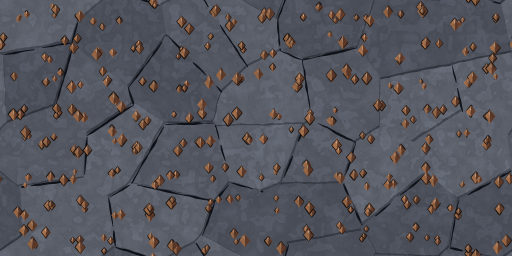
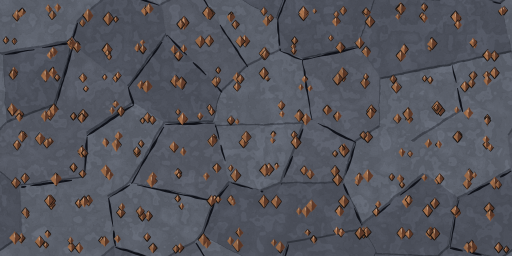
fix(light): keep each vein mark inside its own cell
An ore cell beside plain stone cut its chips at the cell's edge.

diff --git a/tools/anime-art/subjects/caves.js b/tools/anime-art/subjects/caves.js
@@ -107,6 +107,10 @@ const CELLS = [];
 for (let j = 0; j < 8; j++) for (let i = 0; i < 16; i++) CELLS.push([i * 8 + 4, j * 8 + 4]);
 
 /** Flecks of ore over a wall of stone (ice by default, copper with its paint): a small cluster in every cell of the sheet. */
+/** A coordinate kept so a mark reaching `reach` round it, its ink too, stays inside its 8 px cell about `centre`: an ore cell beside
+ * plain stone shows its marks whole, never cut at the cell's edge. */
+const inCell = (v, centre, reach) => Math.max(centre - 3.3 + reach, Math.min(centre + 3.3 - reach, v));
+
 function veined(base, paint = VEIN, seed = 0x1ce) {
   return { ...base, draw(a) {
     base.draw(a);
@@ -115,7 +119,7 @@ function veined(base, paint = VEIN, seed = 0x1ce) {
     for (const [cx, cy] of CELLS) {
       const x0 = cx + (r() - .5) * 4.6, y0 = cy + (r() - .5) * 4.4;
       for (let i = 0, n = 2 + (r() < .5 ? 1 : 0); i < n; i++) {
-        const x = x0 + (r() - .5) * 4.4, y = y0 + (r() - .5) * 3.6, s = .8 + r() * .9;
+        const s = .8 + r() * .9, x = inCell(x0 + (r() - .5) * 4.4, cx, s * .8), y = inCell(y0 + (r() - .5) * 3.6, cy, s);
         a.shape(poly(x, y - s, x + s * .8, y, x, y + s, x - s * .8, y), paint, { outer: false, shade: poly(x, y - s, x + s * .8, y, x, y + s), spec: poly(x - .3, y - s * .5, x, y - s * .7, x, y) });
       }
     }
@@ -138,9 +142,12 @@ function ironVeined(base, seed = 0x1a3) {
       return poly(p);
     };
     for (const [cx, cy] of CELLS) {
-      const gx = cx + (r() - .5) * 4.4, gy = cy + (r() - .5) * 4.4, bub = [];
-      for (let i = 0, m = 3 + Math.floor(r() * 2); i < m; i++) bub.push([gx + (r() - .5) * 3.8, gy + (r() - .5) * 2.4, .7 + r() * .6]);
-      a.flat(torn(gx, gy + .3, 3, 1.9, 9, .3), '#33262a');
+      const gx = inCell(cx + (r() - .5) * 4.4, cx, 2.6), gy = inCell(cy + (r() - .5) * 4.4, cy, 2), bub = [];
+      for (let i = 0, m = 3 + Math.floor(r() * 2); i < m; i++) {
+        const s = .7 + r() * .6;
+        bub.push([inCell(gx + (r() - .5) * 3.8, cx, s), inCell(gy + (r() - .5) * 2.4, cy, s * .9), s]);
+      }
+      a.flat(torn(gx, gy + .3, 2.2, 1.5, 9, .3), '#33262a');
       bub.sort((p, q) => p[1] - q[1]);
       for (const [x, y, s] of bub) a.shape(ell(x, y, s, s * .9), IRON_VEIN, { outer: false, shade: s * .45, lite: ell(x - s * .3, y - s * .35, s * .42, s * .3), spec: ell(x - s * .38, y - s * .42, s * .16, s * .11) });
     }
